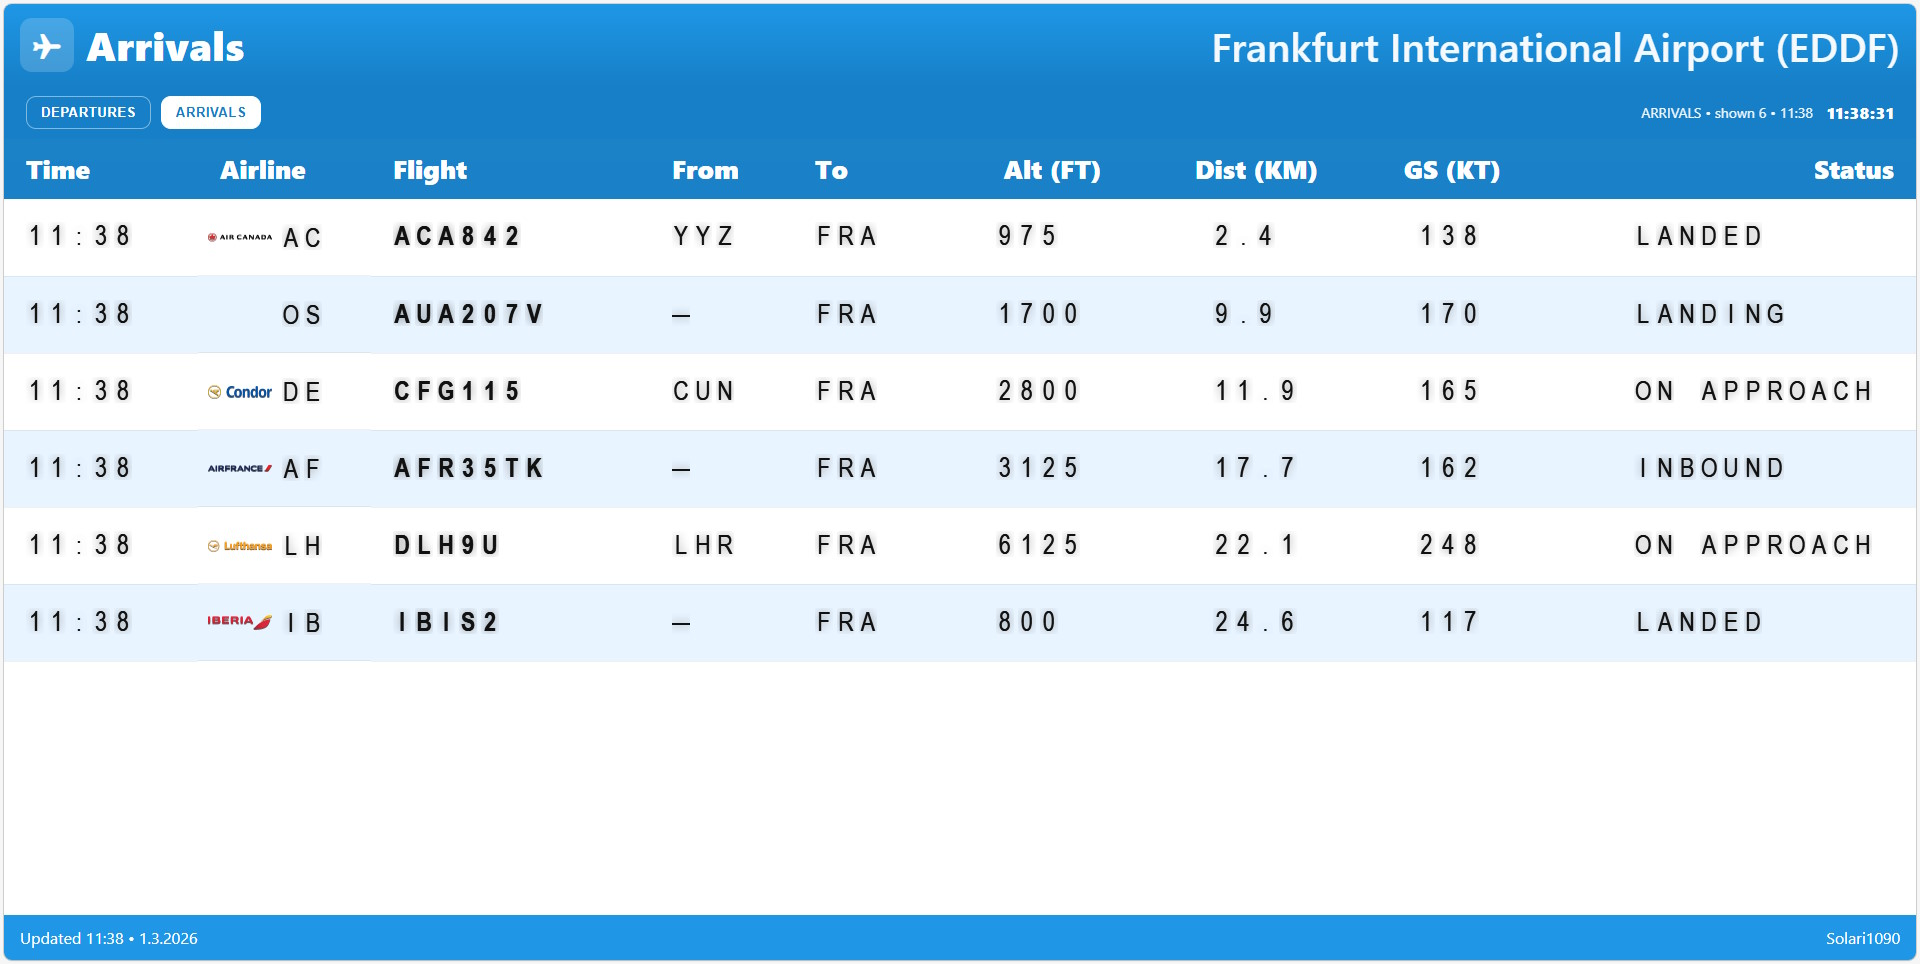
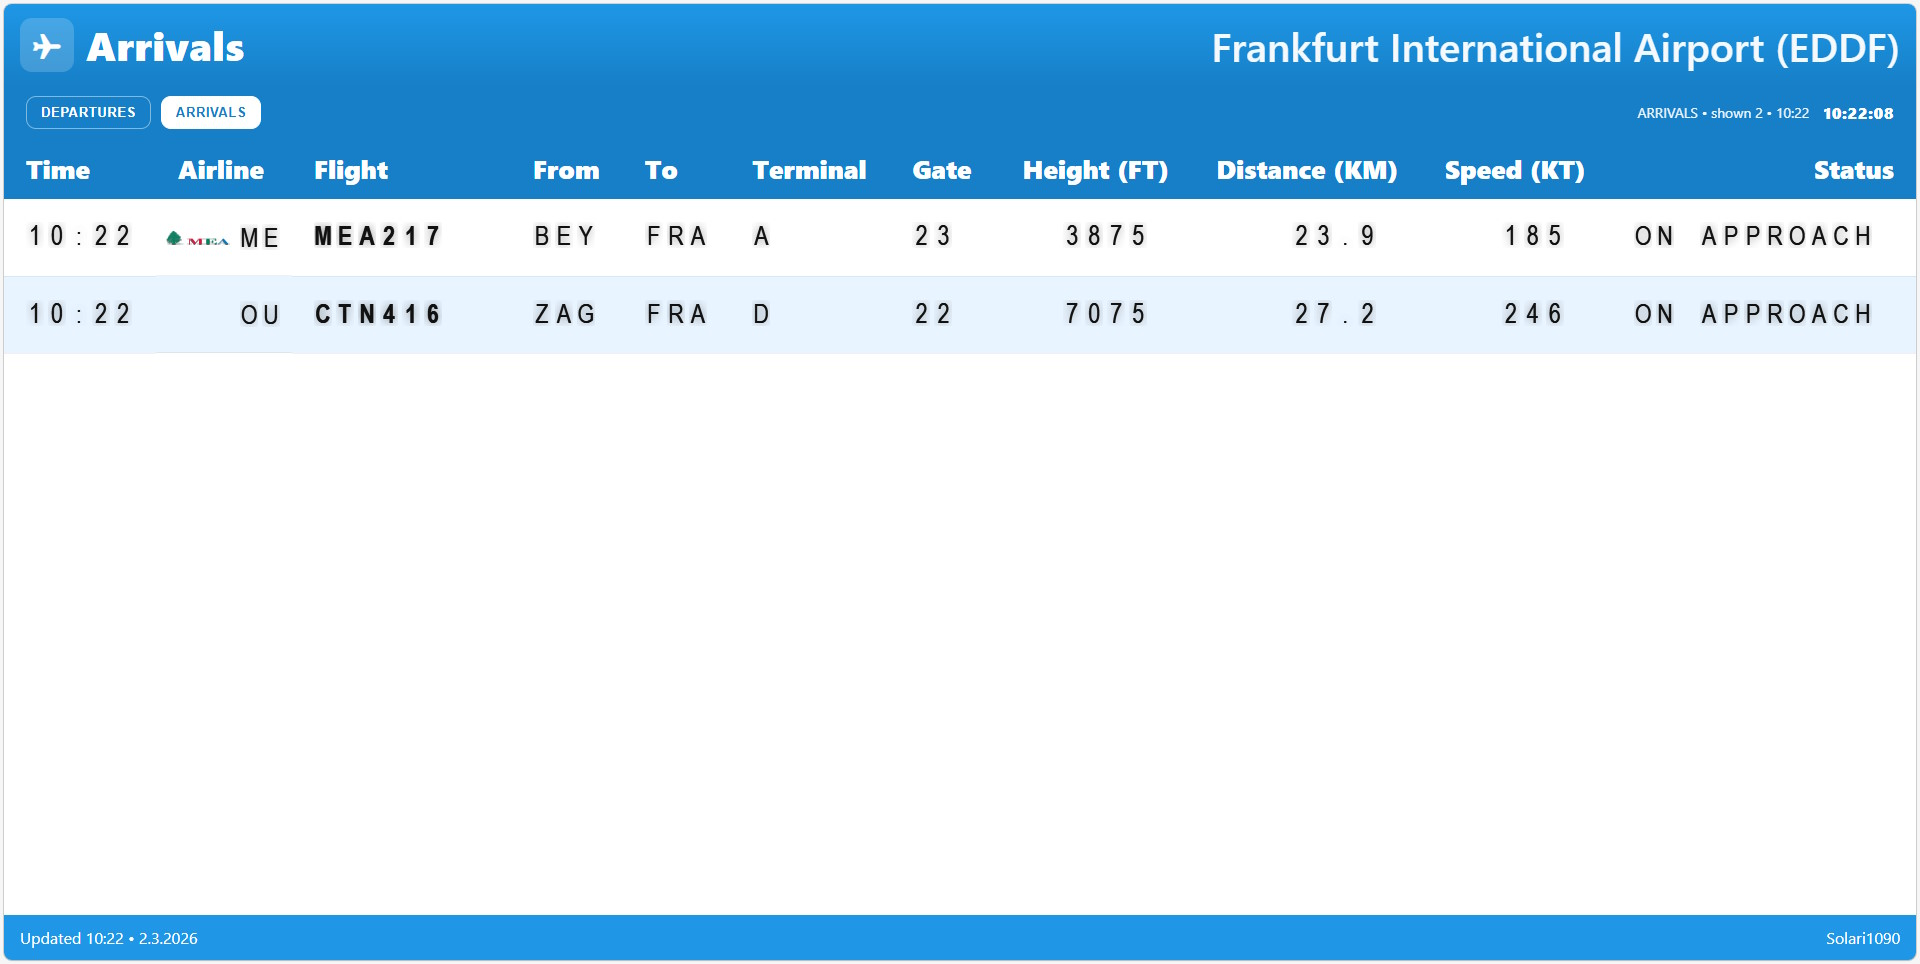
Add files via upload

diff --git a/assets/script.js b/assets/script.js
@@ -1,15 +1,46 @@
 let MODE = 'departures';
+let ICAO2IATA = null;
+async function loadIcaoMap(){
+  try{
+    const res = await fetch('assets/icao2iata.min.json', {cache:'force-cache'});
+    if (!res.ok) return;
+    ICAO2IATA = await res.json();
+  }catch(e){ }
+}
+function toIata(code){
+  const c = (code||'').toString().trim().toUpperCase();
+  if (!c || c==='\\N') return '';
+  if (ICAO2IATA && c.length===4 && ICAO2IATA[c]) return ICAO2IATA[c];
+  return c;
+}
+function hashStr(s){
+  s = (s||'').toString();
+  let h = 2166136261;
+  for (let i=0;i<s.length;i++){ h ^= s.charCodeAt(i); h = Math.imul(h, 16777619); }
+  return (h>>>0);
+}
+function inferGateTerminal(row){
+  const key = row.flight || row.icao || '';
+  const h = hashStr(key);
+  const terminal = row.terminal ? String(row.terminal).toUpperCase() : String.fromCharCode(65 + (h % 4));
+  const gateNum = row.gate ? String(row.gate) : String(1 + (h % 30)).padStart(2,'0');
+  return {terminal, gate: gateNum};
+}
 
-const DEFAULT_COLUMNS = { from:true, to:true, alt_ft:true, dist_km:true, gs_kt:true };
+
+const DEFAULT_COLUMNS = { from:true, to:true, terminal:true, gate:true, alt_ft:true, dist_km:true, gs_kt:true, status:true };
 const COLUMNS = Object.assign({}, DEFAULT_COLUMNS, (window.SOLARI_COLUMNS || {}));
 function isColOn(k){ return !!COLUMNS[k]; }
 function visibleColCount(){
-  let n = 4;
+  let n = 3;
   if (isColOn('from')) n++;
   if (isColOn('to')) n++;
+  if (isColOn('terminal')) n++;
+  if (isColOn('gate')) n++;
   if (isColOn('alt_ft')) n++;
   if (isColOn('dist_km')) n++;
   if (isColOn('gs_kt')) n++;
+  if (isColOn('status')) n++;
   return n;
 }
 
@@ -125,7 +156,7 @@ function guessIata(row){
   return m ? m[1] : '—';
 }
 
-function remarkFor(row){
+function statusFor(row){
   if (row && typeof row.status === 'string' && row.status.trim().length){
     const txt = row.status.trim().toUpperCase();
     const cls = (row.status_cls === 'good' || row.status_cls === 'warn' || row.status_cls === 'bad') ? row.status_cls : null;
@@ -148,10 +179,12 @@ const PAD = {
   flight: 8,
   from: 3,
   to: 3,
+  terminal: 2,
+  gate: 3,
   alt: 5,
   dist: 5,
   gs: 4,
-  remark: 12
+  status: 12
 };
 
 const tbody = document.getElementById('rows');
@@ -196,6 +229,12 @@ function makeFlapTd(colKey, className, initial='—', padTo=null, extraLineClass
   return td;
 }
 
+function makeStatusTd(colKey, className, initial='—', padTo=null){
+  const td = makeFlapTd(colKey, className, initial, padTo);
+  td.dataset.isStatus = '1';
+  return td;
+}
+
 function setTd(td, text, { cls=null, delay=0, force=false } = {}){
   const span = td.querySelector('.flapline');
   const padTo = td.dataset.padTo ? parseInt(td.dataset.padTo, 10) : null;
@@ -212,13 +251,15 @@ function buildRow(r){
     makeFlapTd('flight','flight','—', PAD.flight)
   );
 
-  if (isColOn('from'))    tr.append(makeFlapTd('from', 'from', '—', PAD.from));
-  if (isColOn('to'))      tr.append(makeFlapTd('to', 'to', '—', PAD.to));
-  if (isColOn('alt_ft'))  tr.append(makeFlapTd('alt_ft', 'col-right', '—', PAD.alt));
+  if (isColOn('from'))     tr.append(makeFlapTd('from',     'from',      '—', PAD.from));
+  if (isColOn('to'))       tr.append(makeFlapTd('to',       'to',        '—', PAD.to));
+  if (isColOn('terminal')) tr.append(makeFlapTd('terminal', 'terminal',  '—', PAD.terminal));
+  if (isColOn('gate'))     tr.append(makeFlapTd('gate',     'gate',      '—', PAD.gate));
+  if (isColOn('alt_ft'))   tr.append(makeFlapTd('alt_ft',   'col-right', '—', PAD.alt));
   if (isColOn('dist_km')) tr.append(makeFlapTd('dist_km','col-right', '—', PAD.dist));
   if (isColOn('gs_kt'))   tr.append(makeFlapTd('gs_kt', 'col-right', '—', PAD.gs));
 
-  tr.append(makeFlapTd('remark','col-right','—', PAD.remark));
+  if (isColOn('status')) tr.append(makeStatusTd('status','col-right','—', PAD.status));
 
   updateRow(tr, r);
   return tr;
@@ -230,8 +271,9 @@ function updateRow(tr, r){
   const timeTxt = r.last_seen_epoch ? hhmm(r.last_seen_epoch) : '—';
   const airline = guessIata(r);
   const flight  = safe(r.flight).toUpperCase();
-  const from    = safe(r.from).toUpperCase();
-  const to      = safe(r.to).toUpperCase();
+  const from    = toIata(r.from);
+  const to      = toIata(r.to);
+  const tg      = inferGateTerminal(r);
 
   setTd(td('time'), timeTxt, { delay: 0 * COL_STAGGER });
 
@@ -252,15 +294,19 @@ function updateRow(tr, r){
 
   setTd(td('flight'), flight, { delay: 2 * COL_STAGGER });
 
-  if (isColOn('from'))    setTd(td('from'), from, { delay: 2 * COL_STAGGER });
-  if (isColOn('to'))      setTd(td('to'), to, { delay: 2 * COL_STAGGER });
-  if (isColOn('alt_ft'))  setTd(td('alt_ft'), fmt(r.alt_ft), { delay: 3 * COL_STAGGER });
+  if (isColOn('from'))     setTd(td('from'), from, { delay: 2 * COL_STAGGER });
+  if (isColOn('to'))       setTd(td('to'), to, { delay: 3 * COL_STAGGER });
+  if (isColOn('terminal')) setTd(td('terminal'), tg.terminal, { delay: 4 * COL_STAGGER });
+  if (isColOn('gate'))     setTd(td('gate'), tg.gate, { delay: 5 * COL_STAGGER });
+  if (isColOn('alt_ft'))   setTd(td('alt_ft'), fmt(r.alt_ft), { delay: 6 * COL_STAGGER });
   if (isColOn('dist_km')) setTd(td('dist_km'), fmt(r.dist_km), { delay: 4 * COL_STAGGER });
   if (isColOn('gs_kt'))   setTd(td('gs_kt'), fmt(r.gs_kt), { delay: 5 * COL_STAGGER });
 
-  const rem = remarkFor(r);
-  const cls = (rem.cls === 'good' || rem.cls === 'warn' || rem.cls === 'bad') ? rem.cls : null;
-  setTd(td('remark'), rem.txt, { cls, delay: 6 * COL_STAGGER });
+  if (isColOn('status')){
+    const st = statusFor(r);
+    const cls = (st.cls === 'good' || st.cls === 'warn' || st.cls === 'bad') ? st.cls : null;
+    setTd(td('status'), st.txt, { cls, delay: 8 * COL_STAGGER });
+  }
 }
 
 function showEmpty(){
@@ -300,7 +346,7 @@ async function refresh(forceRebuild=false){
       showEmpty();
       return;
     } else {
-      if (tbody.children.length === 1 && tbody.children[0].children.length === 1 && tbody.children[0].children[0].colSpan === 8){
+      if (tbody.children.length === 1 && tbody.children[0].children.length === 1){
         tbody.innerHTML = '';
       }
     }
@@ -338,5 +384,8 @@ function updateClock(){
 updateClock();
 setInterval(updateClock, 1000);
 
-refresh(true);
+loadIcaoMap().finally(() => {
+  refresh(true);
+});
 setInterval(() => refresh(false), 5000);
+

diff --git a/admin.php b/admin.php
@@ -82,9 +82,12 @@ function write_config_file(array $cfg, string $path): bool {
     $php .= "    'columns' => [\t\t\t\t\t\t\t\t\t/* Toggle optional columns */";
     $php .= "        'from' => " . (!empty($cols['from']) ? 'true' : 'false') . ",";
     $php .= "        'to' => " . (!empty($cols['to']) ? 'true' : 'false') . ",";
+    $php .= "        'terminal' => " . (!empty($cols['terminal']) ? 'true' : 'false') . ",";
+    $php .= "        'gate' => " . (!empty($cols['gate']) ? 'true' : 'false') . ",";
     $php .= "        'alt_ft' => " . (!empty($cols['alt_ft']) ? 'true' : 'false') . ",";
     $php .= "        'dist_km' => " . (!empty($cols['dist_km']) ? 'true' : 'false') . ",";
     $php .= "        'gs_kt' => " . (!empty($cols['gs_kt']) ? 'true' : 'false') . ",";
+    $php .= "        'status' => " . (!empty($cols['status']) ? 'true' : 'false') . ",";
     $php .= "    ],";
 
     $php .= "    'state_cache_file' => __DIR__ . '/state_cache.json',	/* State cache file */";
@@ -172,9 +175,12 @@ if (isset($_POST['action']) && $_POST['action'] === 'save') {
     if (!isset($new['columns']) || !is_array($new['columns'])) $new['columns'] = [];
     $new['columns']['from'] = isset($_POST['col_from']);
     $new['columns']['to'] = isset($_POST['col_to']);
+    $new['columns']['terminal'] = isset($_POST['col_terminal']);
+    $new['columns']['gate'] = isset($_POST['col_gate']);
     $new['columns']['alt_ft'] = isset($_POST['col_alt_ft']);
     $new['columns']['dist_km'] = isset($_POST['col_dist_km']);
     $new['columns']['gs_kt'] = isset($_POST['col_gs_kt']);
+    $new['columns']['status'] = isset($_POST['col_status']);
 
     $pw_new = (string)($_POST['admin_password_new'] ?? '');
     if ($pw_new !== '') {
@@ -326,6 +332,14 @@ if (isset($_POST['action']) && $_POST['action'] === 'save') {
                 <span>Show “To”</span>
               </label>
               <label class="adminCheck">
+                <input type="checkbox" name="col_terminal" <?php echo !empty($cols['terminal']) ? 'checked' : ''; ?>>
+                <span>Show “Terminal”</span>
+              </label>
+              <label class="adminCheck">
+                <input type="checkbox" name="col_gate" <?php echo !empty($cols['gate']) ? 'checked' : ''; ?>>
+                <span>Show “Gate”</span>
+              </label>
+              <label class="adminCheck">
                 <input type="checkbox" name="col_alt_ft" <?php echo !empty($cols['alt_ft']) ? 'checked' : ''; ?>>
                 <span>Show “Height (FT)”</span>
               </label>
@@ -336,6 +350,10 @@ if (isset($_POST['action']) && $_POST['action'] === 'save') {
               <label class="adminCheck">
                 <input type="checkbox" name="col_gs_kt" <?php echo !empty($cols['gs_kt']) ? 'checked' : ''; ?>>
                 <span>Show “Speed (KT)”</span>
+              </label>
+              <label class="adminCheck">
+                <input type="checkbox" name="col_status" <?php echo !empty($cols['status']) ? 'checked' : ''; ?>>
+                <span>Show “Status”</span>
               </label>
             </div>
             <div class="adminSection">

diff --git a/api.php b/api.php
@@ -127,6 +127,11 @@ function guess_airport_icao_from_name(string $name): string {
     return '';
 }
 
+function guess_airport_iata_from_name(string $name): string {
+    if (preg_match('/\b([A-Z]{3})\b/', strtoupper($name), $m)) return $m[1];
+    return '';
+}
+
 function best_code(string $code, array $icaoToIata): string {
     $c = strtoupper(trim($code));
     if ($c === '' || $c === '\\N') return '';
@@ -190,10 +195,14 @@ $airportIcao = strtoupper((string)($config['airport']['icao'] ?? ''));
 if ($airportIcao === '') $airportIcao = guess_airport_icao_from_name((string)($config['airport']['name'] ?? ''));
 
 $airportIata = strtoupper((string)($config['airport']['iata'] ?? ''));
+if ($airportIata === '') $airportIata = guess_airport_iata_from_name((string)($config['airport']['name'] ?? ''));
 if ($airportIata === '' && $airportIcao !== '') {
     $airportIata = $icaoToIata[$airportIcao] ?? '';
 }
-if ($airportIata === '') $airportIata = $airportIcao;
+
+if ($airportIata === '') {
+    if (strlen($airportIcao) === 3 || strlen($airportIcao) === 4) $airportIata = $airportIcao;
+}
 
 $flightRoutes = load_flight_routes(__DIR__ . '/flights.dat');
 
@@ -344,9 +353,9 @@ foreach ($payload['aircraft'] as $a) {
 
     if ($dirEff === 'arrivals') {
         $row['from'] = $origCode !== '' ? $origCode : '';
-        $row['to']   = $airportIata;
+        $row['to']   = $destCode !== '' ? $destCode : '';
     } elseif ($dirEff === 'departures') {
-        $row['from'] = $airportIata;
+        $row['from'] = $origCode !== '' ? $origCode : '';
         $row['to']   = $destCode !== '' ? $destCode : '';
     } else {
         $row['from'] = $origCode;
@@ -387,3 +396,4 @@ echo json_encode([
     ],
 ], JSON_UNESCAPED_SLASHES);
 ?>
+

diff --git a/index.php b/index.php
@@ -47,10 +47,12 @@ $cols = (isset($config['columns']) && is_array($config['columns'])) ? $config['c
 						<th>Flight</th>
 						<?php if (!empty($cols['from'])): ?><th>From</th><?php endif; ?>
 						<?php if (!empty($cols['to'])): ?><th>To</th><?php endif; ?>
+						<?php if (!empty($cols['terminal'])): ?><th>Terminal</th><?php endif; ?>
+						<?php if (!empty($cols['gate'])): ?><th>Gate</th><?php endif; ?>
 						<?php if (!empty($cols['alt_ft'])): ?><th class="col-right">Height (FT)</th><?php endif; ?>
 						<?php if (!empty($cols['dist_km'])): ?><th class="col-right">Distance (KM)</th><?php endif; ?>
 						<?php if (!empty($cols['gs_kt'])): ?><th class="col-right">Speed (KT)</th><?php endif; ?>
-						<th class="col-right">Status</th>
+						<?php if (!empty($cols['status'])): ?><th class="col-right">Status</th><?php endif; ?>
 					</tr>
 				</thead>
 				<tbody id="rows"></tbody>
